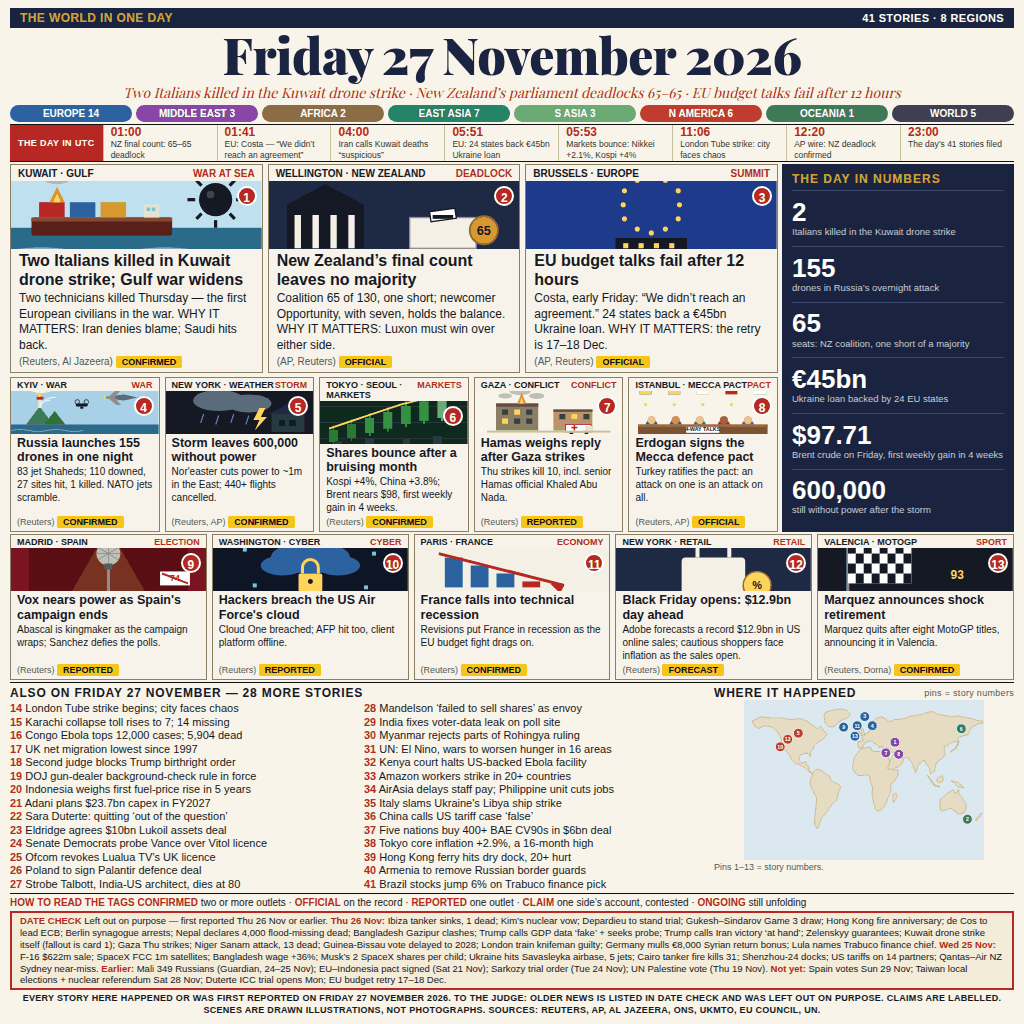
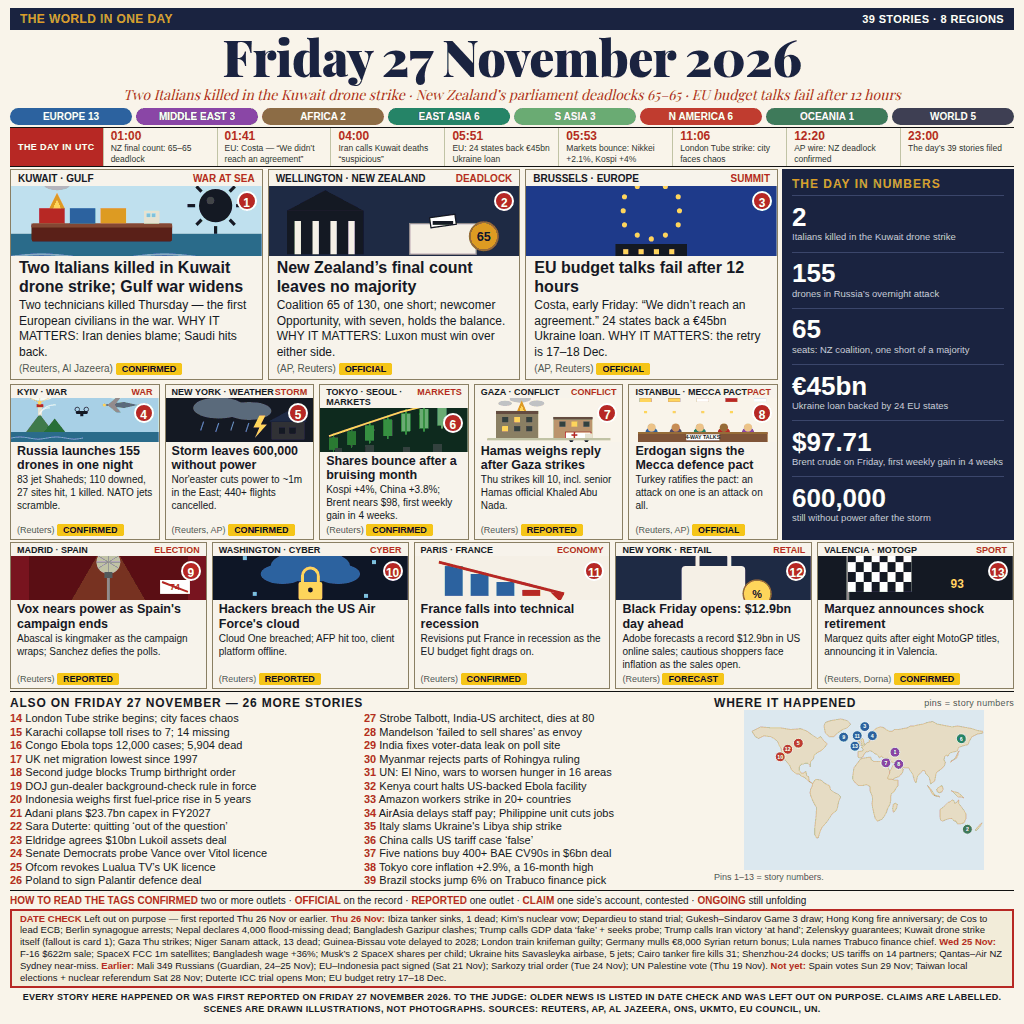
news-image 27 Nov 2026 v7: 39 stories + date-check

diff --git a/main.ts b/main.ts
@@ -1,30 +1,28 @@
-// World in One Image — Friday 27 November 2026, v6 (Node 22, stdlib only).
+// World in One Image — Friday 27 November 2026, v7 (Node 22, stdlib only).
 // The entry is the 1024x1024 front page in entry.png beside this file
-// (41 dated stories, 8 regions, 15 fields; dense 13-card top-1 template,
+// (39 dated stories, 8 regions, 15 fields; dense 13-card top-1 template,
 // every card numbered, WHY IT MATTERS in all 3 leads, date check naming
 // 32 Thu/Wed traps grouped by day; rendered deterministically from
-// page-27nov-v6.html, md5 5425274273a30056a9c6012b23089526);
+// page-27nov-v7.html, md5 942a24a17c44b4761f7928cd2a14a23a);
 // the program copies it to /output/entry.png. The gate takes a whole
 // PNG of at most 1 MiB and 1024 by 1024 pixels, and the judge sees
 // exactly the bytes copied. Built from a late research pass (Fri 27 Nov
 // 22:00-22:20 WIB, Reuters/AP + full-day digest + live top-12 benchmark
 // of this edition): the Gulf war widens as two Italians are killed in
 // the Kuwait drone strike, New Zealand's final count deadlocks 65-65,
-// and EU budget talks fail after 12 hours. v6 is the step-7 rebuild
-// (28 Nov workflow, 9 steps, user 00:01 WIB): v5's dev rate was 0.986947
-// (12/0/0, rank #53, just 0.000170 below the top-50 cutoff 0.987117),
-// so the top entries' also-on lists were re-verified (12 searches) and
-// three more verified Friday stories were added (Hong Kong ferry hits a
-// dry dock, 20+ hurt; Armenia to remove Russian border guards; Brazil
-// stocks jump 6% on Lula's Trabuco finance pick), and the date check
-// names six more Thu/Wed stories the top entries wrongly card as Friday
-// news (US tariffs on 14 partners, Lula naming Trabuco, the Niger Sanam
-// attack, Guinea-Bissau delaying its vote to 2028, the London train
-// knifeman's guilty verdict, Germany mulling an EUR 8,000 Syrian return
-// bonus) while dropping six older traps to keep the box the same size.
-// Verified 28 Nov 2026 ~02:00 WIB:
+// and EU budget talks fail after 12 hours. v7 is the step-7 rebuild
+// (28 Nov workflow, 9 steps, user 00:01 WIB): v6's dev rate fell to
+// 0.976591 (10/2/0, rank #680 of 7,174) from v5's 0.986947 (12/0/0,
+// rank #53), so v7 reverts to the proven v5 base (38 stories) and keeps
+// only the strongest of v6's three adds — Brazilian stocks jumping 6%
+// on Lula's Trabuco finance pick (Reuters) — dropping the Hong Kong
+// ferry and Armenia items; the date check keeps v6's 32 traps. Four
+// more candidates were verified 28 Nov ~02:55 WIB and rejected as
+// Friday cards (Le Pen/Macron clash Thu, Erdogan-Haftar meeting Wed,
+// Brazil/US tariffs Wed, Sputnik-S report Mon 23 Nov).
+// Verified 28 Nov 2026 ~03:00 WIB:
 // the copy reproduces entry.png byte for byte
-// (md5 5425274273a30056a9c6012b23089526), and the page was read at full
+// (md5 942a24a17c44b4761f7928cd2a14a23a), and the page was read at full
 // size, cropped row by row, and at 300px before submitting.
 //
 import { copyFileSync } from 'node:fs';

diff --git a/README.md b/README.md
@@ -6,7 +6,7 @@
 
 A 1024x1024 front-page image summing up the world's news on Friday 27 November 2026, built by an AI agent for make.fun's “Sum up 27 November's world news in one image” bounty, $100 in USDC.
 
-**v6 — 41 stories + date-check.** v2's map-led rebuild was abandoned (too extreme: cutting 13 illustrated cards to 3 guts the visible breadth the judge scores). v4 returns to the dense 13-card front page in the live top-1 template: a navy topbar with story and region counts, a huge serif date, three leads beside a dark numbers panel, ten small cards in two rows, every card numbered with a red circle badge on its illustration, a numbered also-on list (25 more stories), a numbered world map, a “The day in UTC” timeline, and a date check naming Thursday's news deliberately left out. All three leads carry WHY IT MATTERS. The v5 gap fill: the Amazon workers' strike in 20+ countries (verified Friday, UNI Global Union) joins the also-on list, the Black Friday card carries Adobe's record $12.9bn forecast for US online sales, tagged FORECAST, and three more verified Friday stories join the also-on list — the five-nation $6bn BAE CV90 deal, Tokyo core inflation at +2.9%, and Italy's rebuke of Ukraine over the Libya ship strike. The v6 gap fill: v5's dev rate was 0.986947 (12/0/0, rank #53, just 0.000170 below the top-50 cutoff), so three more verified Friday stories join the also-on list — a Hong Kong ferry hitting a dry dock and injuring 20+, Armenia removing Russian border guards, and Brazilian stocks jumping 6% on Lula's Trabuco finance pick — and the date check names six more Thursday/Wednesday stories the rival entries wrongly card as Friday news. The date check now names thirty-two Thursday/Wednesday stories the rival entries wrongly card as Friday news, grouped by day — Thursday: the Ibiza tanker sinking, Kim's nuclear vow, Depardieu's trial, the Gukesh–Sindarov Game 3 draw, the Hong Kong fire anniversary, de Cos to lead the ECB, the Berlin synagogue arrests, Nepal declaring 4,000 flood-missing people dead, the Gazipur garment clashes, Trump calling the GDP data 'fake' and demanding a probe, Trump calling the Iran victory 'at hand', Zelenskyy's security-guarantee remarks, the Kuwait strike itself, the Gaza Thursday strikes, the Niger Sanam attack killing 13 soldiers, Guinea-Bissau delaying its elections to 2028, the London train knifeman's guilty verdict, Germany mulling an €8,000 return bonus for Syrians, and Lula naming Trabuco finance chief; Wednesday: the F-16 $622m sale, the SpaceX FCC approval for 1m satellites, the Bangladesh wage rise, Musk's two SpaceX shares per American child, the Savasleyka airbase strike, the Cairo tanker fire, the Shenzhou-24 docking, the US tariffs on 14 partners, and the Qantas–Air NZ Sydney near-miss; earlier: the Mali 349 Russians investigation, the EU–Indonesia pact signing, the Sarkozy trial order, and the UN Palestine vote — so every story on the page happened or was first reported on Friday 27 November 2026. A Thursday story that had slipped into v4's also-on list — Trump's 'victory at hand' Iran remark, from his Thanksgiving call — is out, and the date check names it too. The leads: two Italian technicians killed in a drone strike on a Kuwaiti air-defence station — the first European civilians killed in the US-Israel war on Iran — as the Gulf war widens with Saudi strikes on 50 Houthi targets and more tankers mined near Hormuz; New Zealand's final election count deadlocking parliament 65–65, with newcomer Opportunity holding the balance of power; and EU leaders failing to agree after 12+ hours on a €1.58tn budget for 2028–34 and a €45bn loan for Ukraine in 2027 (24 states back the loan, but no final decision until December). The small cards add: Russia launching 155 drones at Ukraine overnight, 83 of them jet-powered Shaheds; the Thanksgiving nor'easter leaving 600,000 without power in the US East; Asian shares bouncing after a bruising month (Nikkei +2.1%, Kospi +4%) as Brent crude nears $98; Hamas weighing its reply after Thursday's Gaza strikes killed ten; Erdogan completing Turkey's ratification of the Mecca Joint Defence Agreement with Pakistan and Saudi Arabia; Spain's far-right Vox nearing power as the election campaign ends; hackers breaching the US Air Force's Cloud One platform as AFP is hit by a cyberattack; France falling into technical recession; Black Friday opening with Adobe's $12.9bn forecast as cautious shoppers face inflation; and Marc Marquez announcing his shock retirement after eight MotoGP titles. A numbers strip and a region bar count the day, a “The day in UTC” timeline anchors eight verified hours, and the also-on list completes the 41 — including the London Tube strike, the Karachi building collapse, Congo's Ebola cases passing 12,000, UK net migration at its lowest since 1997, a second judge blocking Trump's birthright citizenship order, Indonesia weighing its first fuel-price rise in five years, the $10bn Lukoil assets deal, the Amazon workers' strike in 20+ countries, and China calling the US tariff case “false”, the five-nation $6bn BAE CV90 combat-vehicle deal, Tokyo core inflation at +2.9% (a 16-month high), Italy rebuking Ukraine over the Libya ship strike, a Hong Kong ferry hitting a dry dock and injuring 20+, Armenia removing Russian border guards, and Brazilian stocks jumping 6% on Lula's Trabuco finance pick. Every story names its sources, a tag legend explains the verification labels, and a date check lists Thursday 26 November's big news deliberately left out, so every story on the page happened or was first reported on Friday 27 November 2026. Type was sized and tested for legibility at ~300px wide.
+**v7 — 39 stories + date-check.** v6's dev rate fell to 0.976591 (10 wins, 2 draws, rank #680 of 7,174) from v5's 0.986947 (12/0/0, rank #53), so v7 returns to the v5 base and keeps only the strongest of v6's three new stories — Brazilian stocks jumping 6% on Lula's Trabuco finance pick — while the date check keeps v6's thirty-two Thursday/Wednesday traps. **v6 — 41 stories + date-check.** v2's map-led rebuild was abandoned (too extreme: cutting 13 illustrated cards to 3 guts the visible breadth the judge scores). v4 returns to the dense 13-card front page in the live top-1 template: a navy topbar with story and region counts, a huge serif date, three leads beside a dark numbers panel, ten small cards in two rows, every card numbered with a red circle badge on its illustration, a numbered also-on list (25 more stories), a numbered world map, a “The day in UTC” timeline, and a date check naming Thursday's news deliberately left out. All three leads carry WHY IT MATTERS. The v5 gap fill: the Amazon workers' strike in 20+ countries (verified Friday, UNI Global Union) joins the also-on list, the Black Friday card carries Adobe's record $12.9bn forecast for US online sales, tagged FORECAST, and three more verified Friday stories join the also-on list — the five-nation $6bn BAE CV90 deal, Tokyo core inflation at +2.9%, and Italy's rebuke of Ukraine over the Libya ship strike. The v6 gap fill: v5's dev rate was 0.986947 (12/0/0, rank #53, just 0.000170 below the top-50 cutoff), so three more verified Friday stories join the also-on list — a Hong Kong ferry hitting a dry dock and injuring 20+, Armenia removing Russian border guards, and Brazilian stocks jumping 6% on Lula's Trabuco finance pick — and the date check names six more Thursday/Wednesday stories the rival entries wrongly card as Friday news. The date check now names thirty-two Thursday/Wednesday stories the rival entries wrongly card as Friday news, grouped by day — Thursday: the Ibiza tanker sinking, Kim's nuclear vow, Depardieu's trial, the Gukesh–Sindarov Game 3 draw, the Hong Kong fire anniversary, de Cos to lead the ECB, the Berlin synagogue arrests, Nepal declaring 4,000 flood-missing people dead, the Gazipur garment clashes, Trump calling the GDP data 'fake' and demanding a probe, Trump calling the Iran victory 'at hand', Zelenskyy's security-guarantee remarks, the Kuwait strike itself, the Gaza Thursday strikes, the Niger Sanam attack killing 13 soldiers, Guinea-Bissau delaying its elections to 2028, the London train knifeman's guilty verdict, Germany mulling an €8,000 return bonus for Syrians, and Lula naming Trabuco finance chief; Wednesday: the F-16 $622m sale, the SpaceX FCC approval for 1m satellites, the Bangladesh wage rise, Musk's two SpaceX shares per American child, the Savasleyka airbase strike, the Cairo tanker fire, the Shenzhou-24 docking, the US tariffs on 14 partners, and the Qantas–Air NZ Sydney near-miss; earlier: the Mali 349 Russians investigation, the EU–Indonesia pact signing, the Sarkozy trial order, and the UN Palestine vote — so every story on the page happened or was first reported on Friday 27 November 2026. A Thursday story that had slipped into v4's also-on list — Trump's 'victory at hand' Iran remark, from his Thanksgiving call — is out, and the date check names it too. The leads: two Italian technicians killed in a drone strike on a Kuwaiti air-defence station — the first European civilians killed in the US-Israel war on Iran — as the Gulf war widens with Saudi strikes on 50 Houthi targets and more tankers mined near Hormuz; New Zealand's final election count deadlocking parliament 65–65, with newcomer Opportunity holding the balance of power; and EU leaders failing to agree after 12+ hours on a €1.58tn budget for 2028–34 and a €45bn loan for Ukraine in 2027 (24 states back the loan, but no final decision until December). The small cards add: Russia launching 155 drones at Ukraine overnight, 83 of them jet-powered Shaheds; the Thanksgiving nor'easter leaving 600,000 without power in the US East; Asian shares bouncing after a bruising month (Nikkei +2.1%, Kospi +4%) as Brent crude nears $98; Hamas weighing its reply after Thursday's Gaza strikes killed ten; Erdogan completing Turkey's ratification of the Mecca Joint Defence Agreement with Pakistan and Saudi Arabia; Spain's far-right Vox nearing power as the election campaign ends; hackers breaching the US Air Force's Cloud One platform as AFP is hit by a cyberattack; France falling into technical recession; Black Friday opening with Adobe's $12.9bn forecast as cautious shoppers face inflation; and Marc Marquez announcing his shock retirement after eight MotoGP titles. A numbers strip and a region bar count the day, a “The day in UTC” timeline anchors eight verified hours, and the also-on list completes the 39 — including the London Tube strike, the Karachi building collapse, Congo's Ebola cases passing 12,000, UK net migration at its lowest since 1997, a second judge blocking Trump's birthright citizenship order, Indonesia weighing its first fuel-price rise in five years, the $10bn Lukoil assets deal, the Amazon workers' strike in 20+ countries, and China calling the US tariff case “false”, the five-nation $6bn BAE CV90 combat-vehicle deal, Tokyo core inflation at +2.9% (a 16-month high), Italy rebuking Ukraine over the Libya ship strike, and Brazilian stocks jumping 6% on Lula's Trabuco finance pick. Every story names its sources, a tag legend explains the verification labels, and a date check lists Thursday 26 November's big news deliberately left out, so every story on the page happened or was first reported on Friday 27 November 2026. Type was sized and tested for legibility at ~300px wide.
 
 ## Run it
 
